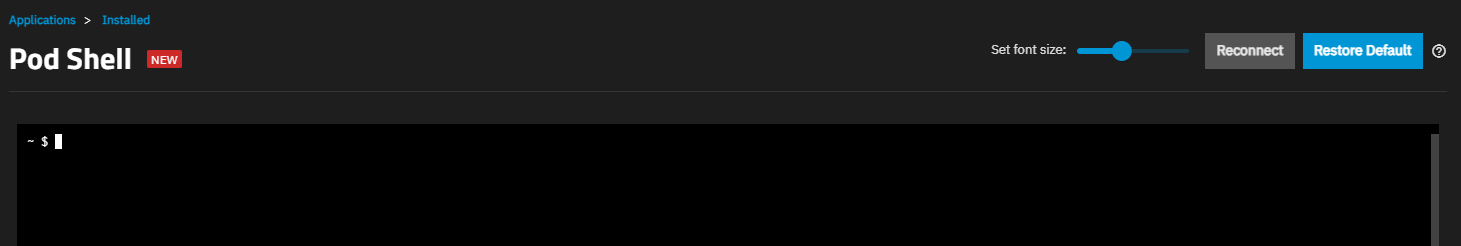
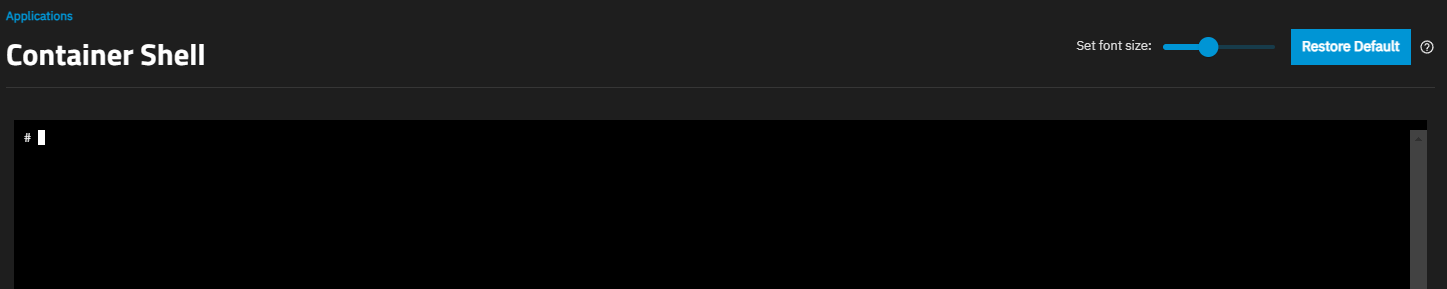
PD-1673 / 25.10 / Pd 1673 apps UI content updates (#3581)
* Update AppsDeleteAppDialog.png

* Update AppsPodShellScreen.png

* Delete ChooseShellDetailsDialog.png

* Update _index.md

* Update _index.md

* Create CreateDockerRegistry.png

* Create DockerRegistriesScreen.png

* Update _index.md

* Update _index.md

* Create CreateDockerRegistryOther.png

* Update _index.md

* Apply suggestions from code review

* Update content/TruenasApps/_index.md

* Update _index.md

---------

diff --git a/content/SCALE/SCALEUIReference/Apps/_index.md b/content/SCALE/SCALEUIReference/Apps/_index.md
@@ -29,6 +29,7 @@ The individual app widgets open app information screens with details about that 
 It also includes options to install [third-party applications](#install-custom-app-screen) in Docker containers that allow users to deploy apps not included in the catalog.
 
 ## Installed Screen
+
 The first time you go to **Apps**, the **Installed** applications screen header shows an <i class="fa fa-cog" aria-hidden="true"></i> **Apps Service Not Configured** status and dialog opens prompting you to choose the pool for apps to use.
 You must choose the pool apps use before you can install applications. See [Choose A Pool for Apps](#choose-a-pool-for-apps) for more information.
 
@@ -43,16 +44,19 @@ The **Installed** applications screen displays **Check Available Apps** before y
 **Check Available Apps** or **Discover Apps** opens the **[Discover](#using-the-discover-applications-screen)** screen.
 
 ## Configuration Menu
-**Configuration** on the **Installed** applications header displays global settings that apply to all applications. 
+
+**Configuration** on the **Installed** applications header displays global settings that apply to all applications.
 
 * **Choose Pool** opens the **[Choose a pool for Apps](#choose-a-pool-for-apps-dialog)** dialog.
 * **Unset Pool** shows after setting a pool for applications to use. It opens the **Unset Pool** dialog.
 * **Manage Container Images** opens the [**Manage Container Images**](#manage-container-images) screen.
+* **Sign-in to a Docker registry** opens the [**Docker Registries**](#docker-registries) screen.
 * **[Settings](#settings)** opens the **Settings** screen with four train options. Use to add or remove other trains to the one catalog of applications.
 
 {{< trueimage src="/images/SCALE/Apps/AppsInstalledAppsSettingOptions.png" alt="Installed Applications Screen Settings" id="Installed Applications Screen Settings" >}}
 
 ### Choose a Pool for Apps
+
 **Choose Pool**  opens the **Choose a pool for apps** dialog. The **Pool** dropdown list shows a list of available pools on the system.
 **Choose** sets the selected pool for use by applications.
 
@@ -65,12 +69,14 @@ If you exit out of this dialog, to set the pool, click [**Settings > Choose Pool
 If a pool is not chosen and you attempt to install an application, after clicking **Install** on an application information screen a dialog window prompts you to select a pool before the installation wizard shows.
 
 ### Unset Pool
+
 **Unset Pool** on the **Settings** menu opens the **Unset Pool** dialog. Click **Unset** to unset the pool and turn off the application service.
 When complete, a **Success** dialog displays.
 
 {{< trueimage src="/images/SCALE/Apps/AppsUnsetPoolDialog.png" alt="Apps Unset Pool" id="Apps Unset Pool" >}}
 
 ### Manage Container Images
+
 The **Manage Container Images** screen lists all container images currently downloaded on TrueNAS.
 
 {{< trueimage src="/images/SCALE/Apps/AppsManageContainerImages.png" alt="Apps Manage Container Images" id="Apps Manage Container Images" >}}
@@ -78,6 +84,7 @@ The **Manage Container Images** screen lists all container images currently down
 Entering characters in the **<span class="iconify" data-icon="mdi:magnify"></span> Search** field on the screen header filters the images list to only the **Image ID** or **Tags** entries matching the entered characters.
 
 #### Pull Image
+
 **Pull Image** opens a side panel with options to download specific images to TrueNAS.
 
 {{< trueimage src="/images/SCALE/Apps/AppsManageContainerImagesPullImage.png" alt="Pull a Container Image" id="Pull a Container Image" >}}
@@ -90,9 +97,33 @@ Entering characters in the **<span class="iconify" data-icon="mdi:magnify"></spa
 | **Docker Registry Authentication** | Optional. Only needed for private images. |
 | **Username** | User account name to access a private Docker image. |
 | **Password** | User account password to access a private Docker image. |
-{{< /truetable >}} 
+{{< /truetable >}}
+
+### Docker Registries
+
+The **Docker Registries** screen lists signed-in Docker registry records.
+
+{{< trueimage src="/images/SCALE/Apps/DockerRegistriesScreen.png" alt="Docker Registries Screen" id="Docker Registries Screen" >}}
+
+#### Create Docker Registry
+
+**Add Registry** opens the **Create Docker Registry** panel.
+
+{{< trueimage src="/images/SCALE/Apps/CreateDockerRegistry.png" alt="Create Docker Registry" id="Create Docker Registry" >}}
+
+{{< truetable >}}
+| Setting | Description |
+|-----------|-------------|
+| **URI** (Dropdown) | The Uniform Resource Identifier (URI) type for the registry. Options are **Docker Hub** or **Other Registry**. Hidden when a Docker Hub registry record is already configured. |
+| **URI** | Field shows after selecting **Other Registry* as the URI type on the **URI** dropdown list. Also shows when a Docker Hub registry record is already configured. Enter a valid URI for the registry as a URL address, for example *https://index.docker.io/vi/*.
+|
+| **Name** | Field shows after selecting **Other Registry* as the URI type on the **URI** dropdown list. Also shows when a Docker Hub registry record is already configured. Enter a display name for the registry record. |
+| **Username** | The user name to sign in to the registry. |
+| **Password** | The password for the user to sign in to the registry. |
+{{< /truetable >}}
 
 ### Settings
+
 **Settings** opens the **Settings** screen showing four application train options, the option to add IP addresses and subnets for the application to use, check for Docker image updates, and if the system is equipped with a GPU, to enable TrueNAS to update drivers for that GPU.
 
 {{< trueimage src="/images/SCALE/Apps/AppsSettingScreen.png" alt="Apps Settings Screen" id="Apps Settings Screen" >}}
@@ -122,9 +153,10 @@ When the TrueNAS Debug Kernel is enabled, NVIDIA drivers are disabled.
 
 Systems with non-NVIDIA GPU devices do not show this option, but these GPUs are selectable in the app installation wizards in the **Resources Configuration** section for the app.
 
-**Check for docker image updates** sets TrueNAS to check for docker image updates (default setting). 
+**Check for docker image updates** sets TrueNAS to check for docker image updates (default setting).
 
 ## Applications Table
+
 The **Applications** table on the **Installed** screen populates a row for each installed app that shows the current state, and the option to stop the app.
 Stopped apps show the option to start the app.
 
@@ -143,6 +175,7 @@ A yellow badge shows when an update is available. See [Update Apps](#update-apps
 Selecting the checkbox to the left of **Applications** selects all installed apps and shows the [**Bulk Actions**](#bulk-actions) dropdown list.
 
 ### Bulk Actions
+
 The **Bulk Action** dropdown list allows you to apply actions to one or more applications installed and running on your system.
 
 {{< trueimage src="/images/SCALE/Apps/InstalledAppsBulkActions.png" alt="Installed Applications Bulk Actions" id="Installed Applications Bulk Actions" >}}
@@ -161,11 +194,13 @@ Click the expand icon for listed app to show the **Version** dropdown and **Chan
 Upgrade begins updating the applications one at a time. Apps status changes to STOPPED before it is updated, and then returns to RUNNING after the upgrade completes.
 
 ## Application Widgets
+
 Installed application have a set of widgets on the **Installed** screen.
 Select an application row to view the information widgets for that application.
 Information in the widgets change based on the app row selected in the **Applications** table.
 
 ### Application Info Widget
+
 The **Application Info** widget shows the name, version number, date last updated, source link for the application, developer, catalog, and train name.
 It includes the **Edit**, **Delete**, and **Web UI** buttons for the application.
 If an update is available, it also shows the **Update** button.
@@ -181,13 +216,20 @@ If an update is available, it also shows the **Update** button.
 **[Update](#update-apps)** opens a window for the application showing the current version and the new version the upgrade installs.
 
 #### Delete Apps
-The **Delete** dialog asks for confirmation to delete the selected application.
+
+The **Delete App** dialog asks for confirmation to delete the selected application.
 
 {{< trueimage src="/images/SCALE/Apps/AppsDeleteAppDialog.png" alt="Delete Application Dialog" id="Delete Application Dialog" >}}
+
+**Remove iXVolumes** deletes hidden app storage from the apps pool.
+**Force-Remove iXVolumes** deletes app storage created on TrueNAS 24.04 and migrated to 24.10 or later.
+
+**Remove Images** prunes Docker images of the deleted app.
 
 **Confirm** activates the **Continue** button. **Continue** initiates the delete operation.
 
 #### Update Apps
+
 **Update** shows on the **Application Info** widget after clicking **Update All** on the **Installed** applications header.
 Both only show if TrueNAS detects an available update for an application.
 The application widget on the **Discover** screen also displays an update badge.
@@ -202,6 +244,7 @@ When complete, the update badge and buttons disappear.
 The **Update** state on the application row on the **Installed** screen changes to **Up to date**.
 
 ### Workloads Widget
+
 The **Workloads** widget shows the container information for the selected application.
 Information includes the number of pods, used ports, number of deployments, stateful sets, and container information.
 It also shows the **Shell**, **Volume Mounts** and **View Log** icon buttons that provide access to the container pod shell and log screens and mount point windows.
@@ -209,31 +252,23 @@ The option to access the log and the shell remain available for stopped applicat
 
 {{< trueimage src="/images/SCALE/Apps/InstalledAppsWorkloadsWidget.png" alt="Installed Apps Containers Widget" id="Installed Apps Containers Widget" >}}
 
-The **Shell** <span class="iconify" data-icon="mdi:console" title="Shell">Shell</span> button opens the **[Choose Shell Details](#choose-shell-details)** window.
-After selecting the container options, a shell screen for the pod opens.
+The **Shell** <span class="iconify" data-icon="mdi:console" title="Shell">Shell</span> button opens the **Container Shell** screen.
+
+{{< trueimage src="/images/SCALE/Apps/AppsPodShellScreen.png" alt="Container Shell Screen" id="Container Shell Screen" >}}
 
 The **Volume Mounts** <span class="material-icons">folder_open</span> button opens the [**Volume Mounts**](#volume-mounts) dialog.
 
 The **View Logs** <span class="iconify" data-icon="mdi:text-box" title="Logs">Logs</span> button also opens the **Pod Logs** screen for the app.
 
-#### Choose Shell Details
-The **Choose Shell Details** dialog allows you to enter a shell command to open the **Pod Shell** screen. You can accept the default value in **Command** or specify another.
-
-{{< trueimage src="/images/SCALE/Apps/ChooseShellDetailsDialog.png" alt="Choose Shell Details" id="Choose Shell Details" >}}
-
-**Choose**  opens the **Applications > Pod Shell** screen.
-
-{{< trueimage src="/images/SCALE/Apps/AppsPodShellScreen.png" alt="Apps Pod Shell Screen" id="Apps Pod Shell Screen" >}}
-
-Click **Installed** on the breadcrumb to return to the **Installed** applications screen.
-
 #### Volume Mounts
+
 **Volume Mounts** opens a dialog showing information on the app volume mounts for current and exited volume mounts for the application container.
 The app has **Volume Mount** options to open windows for both the running mount point and permissions - exited mount point.
 
 {{< trueimage src="/images/SCALE/Apps/MinIOVolumeMountsDialog.png" alt="MinIO Volume Mounts" id="MinIO Volume Mounts" >}}
 
 #### Pod Log
+
 Each **Pod Log** screen includes a banner with the **Application Name**, **Pod Name** and **Container Name**.
 
 {{< trueimage src="/images/SCALE/Apps/WebDAVPodLogsScreen.png" alt="WebDAV Pod Logs Screen" id="WebDAV Pod Logs Screen" >}}
@@ -241,6 +276,7 @@ Each **Pod Log** screen includes a banner with the **Application Name**, **Pod N
 Use the logs to help troubleshoot problems with your container pods.
 
 ### Notes Widget
+
 The **Notes** widget shows information about the apps, location where TrueNAS Documentation Hub articles are found, and links to file bug reports through Jira or GitHub, and where to make feature requests.
 
 {{< trueimage src="/images/SCALE/Apps/AppsNotesWidget.png" alt="Apps Notes Widget" id="Apps Notes Widget" >}}
@@ -249,6 +285,7 @@ The **Notes** widget shows information about the apps, location where TrueNAS Do
 **Collapse** hides the extra information.
 
 ### Application Metadata Widget
+
 The **Application Metadata** widget shows application capabilities unique to the application, and **Run As Content** showing the user and group IDs, the default user and group name, and brief description for the application.
 
 {{< trueimage src="/images/SCALE/Apps/ApplicationMetadataWidget.png" alt="Application Metadata Widget" id="Application Metadata Widget" >}}
@@ -257,12 +294,14 @@ The **Application Metadata** widget shows application capabilities unique to the
 **Collapse** hides the extra information.
 
 ## Discover Apps Screen
+
 The **Discover** screen displays application widgets for the official TrueNAS **stable** train by default.
 Users can add the **community** and **enterprise**, or **test** train applications on the **[Settings](#settings-screen)** screen.
 
 {{< trueimage src="/images/SCALE/Apps/AppsDiscoverScreen.png" alt="Applications Discover Screen" id="Applications Discover Screen" >}}
 
 ### Discover Screen Header
+
 The breadcrumbs at the top of the screen header show links to the previous or the main applications screen. Click a link to open that screen.
 
 {{< trueimage src="/images/SCALE/Apps/AppsDiscoverScreenHeaderAndSearch.png" alt="Apps Discover Screen Header and Search" id="Discover Screen Header and Search" >}}
@@ -277,7 +316,7 @@ The **Discover** screen includes a search field, links to other application mana
 * **Manage Installed Apps** that opens **[Installed](#installed-apllications-screen)** applications screen.
 
 **Filters** shows a list of sort categories that alter which application widgets show. Click on a category to select and filter app widgets.
-Filter information includes the **Category**, **App Name**, and **Updated Date**. 
+Filter information includes the **Category**, **App Name**, and **Updated Date**.
 
 * **Category** sorts the app widgets by category or functional area.
   For example, Media, Monitoring, Networking, Productivity. etc.
@@ -293,6 +332,7 @@ TrueNAS 24.10 or later provides two options for installing a third-party applica
 See [Install Custom App Screens]({{< relref "InstallCustomAppScreens.md" >}}) for more information.
 
 ## Application Information Screens
+
 Each application widget on the **Discover** screen opens a information screen with details about that application, a few screenshot of web UI for the application, and the **Install** button.
 Application information shows the app version, GitHub repository link for the image, and date the image was last updated, keywords, the TrueNAS app train, and the app homepage location.
 
@@ -312,6 +352,7 @@ The screen includes small screenshots of the application website that, when clic
 The bottom of the screen includes app widgets for similar applications found in the catalog.
 
 ### Application Install or Edit App Wizards
+
 The application **Install *Application*** wizard and **Edit *Application*** screens show the same settings, but un-editable settings are either not shown or are inactive to prevent edit attempts.
 The **Edit *Application*** screen opens populated with the current settings for the application.
 

diff --git a/content/TruenasApps/_index.md b/content/TruenasApps/_index.md
@@ -83,6 +83,36 @@ Additionally, configuration options for individual apps include one or more of t
 
 {{< include file="/static/includes/apps/AppsDatasets.md" >}}
 
+### Signing In to a Docker Registry
+
+To sign in to a Docker registry, click **Configuration > Sign-in to a Docker registry** to open the **Docker Registries** screen.
+
+{{< trueimage src="/images/SCALE/Apps/DockerRegistriesScreen.png" alt="Docker Registries Screen" id="Docker Registries Screen" >}}
+
+Signing in to a registry, such as Docker Hub, is not required but allows you to avoid rate limiting issues or connect to a private registry.
+
+Click **Add Registry** to open the **Create Docker Registry** panel.
+
+{{< trueimage src="/images/SCALE/Apps/CreateDockerRegistry.png" alt="Create Docker Registry - Docker Hub" id="Create Docker Registry - Docker Hub" >}}
+
+Use the **URI** dropdown to select the Uniform Resource Identifier (URI) type for the registry.
+The URI dropdown is hidden when a Docker Hub registry record is already configured.
+
+* Select **Docker Hub** to sign in to Docker Hub.
+  Enter the user name and password of an existing Docker Hub account.
+
+* Select **Other Registry** to enter a registry address and sign in to a non-Docker Hub registry.
+  Alternately, click **Add Registry** again after signing in to Docker Hub.
+
+  {{< trueimage src="/images/SCALE/Apps/CreateDockerRegistryOther.png" alt="Create Docker Registry - Other Registry" id="Create Docker Registry - Other Registry" >}}
+
+  Enter a valid Uniform Resource Identifier (URI) for the registry as a URL, for example *https://index.docker.io/v1/*.
+  Then enter a display name for the registry record in TrueNAS.
+
+  Enter the user name and password of an existing account on the registry.
+
+Click **Save** to sign in and create the registry record.
+
 ### Configuring Apps Settings
 
 Click **Configuration > Settings** to open the **Settings** screen, which contains options for setting app trains, configuring app networking, installing NVIDIA drivers (if compatible hardware is present), and allowing TrueNAS to monitor for Docker image updates.
@@ -305,11 +335,15 @@ When complete, the update badge and buttons disappear and the application **Upda
 ### Deleting Apps
 
 To delete an application, click <i class="fa fa-stop" aria-hidden="true"></i> **Stop** on the application row.
-After the app status changes to stopped, click **Delete** on the **Application Info** widget for the selected application to open the **Delete** dialog.
+After the app status changes to stopped, click **Delete** on the **Application Info** widget for the selected application to open the **Delete App** dialog.
 
 {{< trueimage src="/images/SCALE/Apps/AppsDeleteAppDialog.png" alt="Delete Application Dialog" id="Delete Application Dialog" >}}
 
-Select **Remove ixVolumes** to delete hidden app storage from the Apps pool.
+Select **Remove iXVolumes** to delete hidden app storage from the apps pool.
+Select **Force-Remove iXVolumes** to delete app storage created on TrueNAS 24.04 and migrated to 24.10 or later.
+Proceed with caution as this option removes both legacy kubernetes and current Docker data for the application.
+
+Select **Remove Images** to prune Docker images of the deleted app.
 
 Click **Confirm** then **Continue** to delete the application.
 
